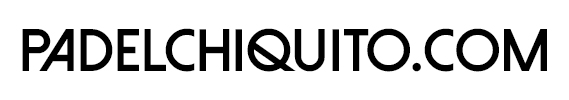
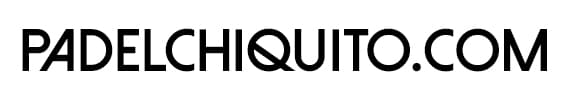
Lazy loading implementado para las imagenes de el comparador

diff --git a/apps/comparador/templates/comparador_pala.html b/apps/comparador/templates/comparador_pala.html
@@ -269,12 +269,12 @@
 								<td class="flex items-center justify-center">
 									<a href="{% url 'mostrar_pala' pk=pala.pk %}">
 										{% if pala.imagen %}
-											<img src="{{ pala.imagen.url }}" alt="{{ pala.nombre }}" width="50" height="50">
+											<img src="{{ pala.imagen.url }}" alt="{{ pala.nombre }}" width="50" height="50" loading="lazy">
 										{% else %}
 											<picture>
-												<source srcset='{% static "img/no-image-found.svg" %}' type="image/svg+xml">
+												<source srcset='{% static "svg/no-image-found.svg" %}' type="image/svg+xml">
 												<source srcset='{% static "img/no-image-found.webp" %}' type="image/webp">
-												<img src='{% static "img/no-image-found.png" %}' alt="{{ pala.nombre }}" width="50" height="50">
+												<img src='{% static "img/no-image-found.png" %}' alt="{{ pala.nombre }}" width="50" height="50" loading="lazy">
 											</picture>
 										{% endif %}
 									</a>

diff --git a/apps/comparador/templates/header.html b/apps/comparador/templates/header.html
@@ -6,8 +6,7 @@
 			<div id="formContainerPC" class="flex gap-x-4">
 				<a href="/">
 					<picture class="h-full max-w-fit">
-						<source srcset="{% static 'img/padelchiquito.jpg' %}" type="image/svg+xml">
-						<source srcset="{% static 'img/padelchiquito.jpg' %}" type="image/webp">
+						<source srcset="{% static 'img/padelchiquito.webp' %}" type="image/webp">
 						<img src="{% static 'img/padelchiquito.jpg' %}" class="w-40 h-12" alt="Logo" width="80" height="40">
 					</picture>
 				</a>
